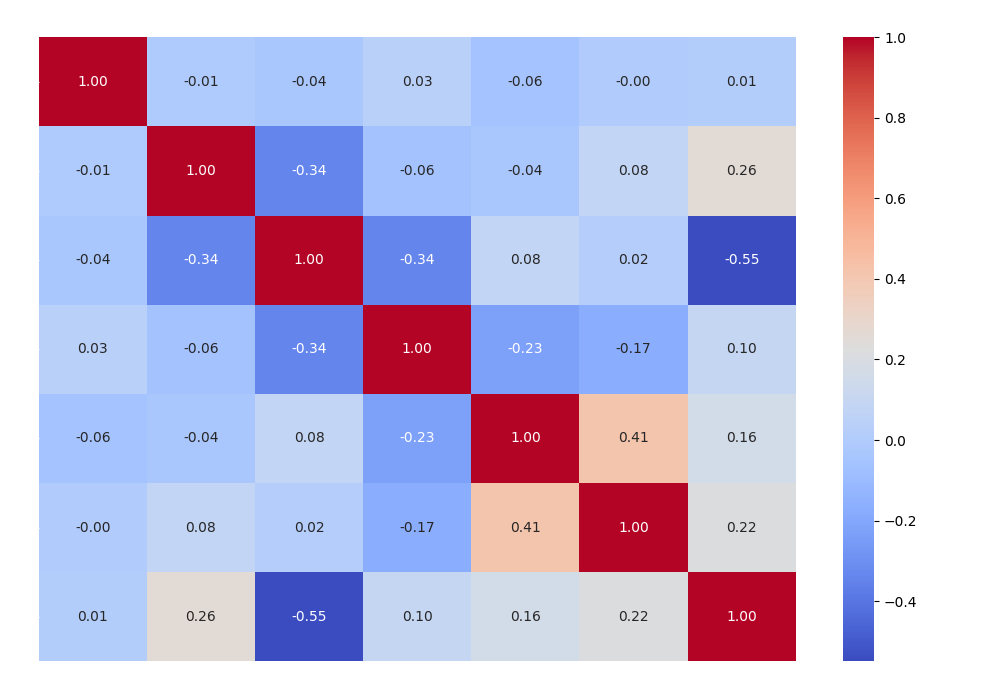
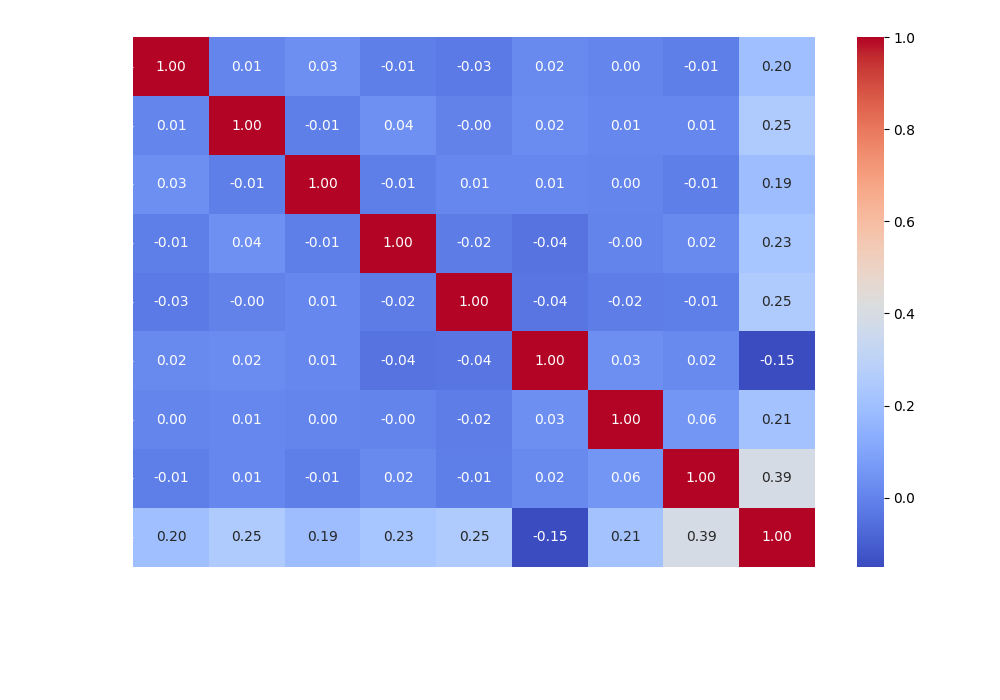
implement model training confirmation controller, server rate limiting, and ML output infrastructure.

diff --git a/backend/server.js b/backend/server.js
@@ -4,6 +4,29 @@ const dotenv = require("dotenv");
 
 dotenv.config();
 
+process.on("unhandledRejection", (reason, promise) => {
+  console.error("Unhandled Rejection at:", promise, "reason:", reason);
+  try {
+    const fs = require("fs");
+    const path = require("path");
+    fs.writeFileSync(path.join(__dirname, "last_server_error.txt"), `${new Date().toISOString()}\nUNHANDLED REJECTION:\n${reason?.stack || reason}\n\n`);
+  } catch (e) {
+    console.error("Failed to write rejection log:", e);
+  }
+});
+
+process.on("uncaughtException", (err) => {
+  console.error("Uncaught Exception thrown:", err);
+  try {
+    const fs = require("fs");
+    const path = require("path");
+    fs.writeFileSync(path.join(__dirname, "last_server_error.txt"), `${new Date().toISOString()}\nUNCAUGHT EXCEPTION:\n${err.stack || err}\n\n`);
+  } catch (e) {
+    console.error("Failed to write exception log:", e);
+  }
+  process.exit(1);
+});
+
 const connectDB = require("./config/db");
 const authRoutes = require("./routes/authRoutes");
 const uploadRoutes = require("./routes/uploadRoutes");
@@ -117,9 +140,23 @@ app.get("/", (req, res) => {
 // H2 fix: Never leak stack traces or internal error details to clients
 app.use((err, req, res, next) => {
   console.error("[ERROR]", err.stack);
-  const statusCode = err.statusCode || 500;
+  
+  // Set status code to 400 for client/multer validation errors
+  let statusCode = err.statusCode || 500;
+  if (err.name === "MulterError" || err.message.includes("Only CSV files are allowed")) {
+    statusCode = 400;
+  }
+
+  try {
+    const fs = require("fs");
+    const path = require("path");
+    fs.writeFileSync(path.join(__dirname, "last_server_error.txt"), `${new Date().toISOString()}\nStatus: ${statusCode}\n${err.stack}\n\n`);
+  } catch (e) {
+    console.error("Failed to write error log:", e);
+  }
+
   res.status(statusCode).json({
-    error: IS_PRODUCTION
+    error: IS_PRODUCTION && statusCode === 500
       ? "An internal server error occurred."
       : err.message,
   });

diff --git a/backend/utils/errorLogger.js b/backend/utils/errorLogger.js
@@ -1,0 +1,19 @@
+// utils/errorLogger.js
+const fs = require("fs");
+const path = require("path");
+
+function logError(title, err) {
+  try {
+    const logPath = path.join(__dirname, "../last_server_error.txt");
+    const timestamp = new Date().toISOString();
+    const stack = err?.stack || err || "No stack trace available";
+    const message = err?.message || err;
+    const logContent = `${timestamp}\n[${title}] ${message}\n${stack}\n\n`;
+    
+    fs.writeFileSync(logPath, logContent);
+  } catch (e) {
+    console.error("Failed to write to error log file:", e);
+  }
+}
+
+module.exports = { logError };

diff --git a/backend/controller/uploadController.js b/backend/controller/uploadController.js
@@ -3,6 +3,7 @@ const fs = require("fs");
 const mongoose = require("mongoose");
 const { GridFSBucket } = require("mongodb");
 const { ML_SERVICE_URL } = require("../config/urls");
+const { logError } = require("../utils/errorLogger.js");
 
 exports.uploadDataset = async (req, res) => {
   try {
@@ -28,6 +29,7 @@ exports.uploadDataset = async (req, res) => {
 
     uploadStream.on('error', (error) => {
       console.error("[GRIDFS UPLOAD ERROR]:", error);
+      logError("GRIDFS UPLOAD ERROR", error);
       res.status(500).json({ error: "Failed to store dataset securely." });
     });
 
@@ -66,6 +68,7 @@ exports.uploadDataset = async (req, res) => {
         res.json(mlData);
       } catch (mlError) {
         console.error("[ML ANALYZE ERROR]:", mlError.response?.data || mlError.message);
+        logError("ML ANALYZE ERROR", mlError);
         if (fs.existsSync(filePath)) {
           fs.unlinkSync(filePath);
         }
@@ -78,6 +81,7 @@ exports.uploadDataset = async (req, res) => {
 
   } catch (error) {
     console.error("[UPLOAD ERROR]:", error.message);
+    logError("UPLOAD ERROR", error);
     res.status(500).json({ error: "Dataset upload failed." });
   }
 };

diff --git a/backend/routes/uploadRoutes.js b/backend/routes/uploadRoutes.js
@@ -21,7 +21,9 @@ const upload = multer({
     if (allowedMimes.includes(file.mimetype) || allowedExts.includes(ext)) {
       cb(null, true);
     } else {
-      cb(new Error("Only CSV files are allowed. Please upload a valid .csv file."), false);
+      const error = new Error("Only CSV files are allowed. Please upload a valid .csv file.");
+      error.statusCode = 400;
+      cb(error, false);
     }
   },
 });

diff --git a/backend/controller/chatController.js b/backend/controller/chatController.js
@@ -1,5 +1,6 @@
 const axios = require("axios");
 const { ML_SERVICE_URL } = require("../config/urls");
+const { logError } = require("../utils/errorLogger.js");
 
 exports.handleChat = async (req, res) => {
   try {
@@ -25,6 +26,7 @@ exports.handleChat = async (req, res) => {
     res.json(response.data);
   } catch (error) {
     console.error("CHAT PROXY ERROR:", error.response?.data || error.message);
+    logError("CHAT PROXY ERROR", error);
     res.status(error.response?.status || 500).json({
       error: "The AI assistant is temporarily unavailable.",
       details: error.response?.data?.detail || error.message

diff --git a/backend/controller/confirmController.js b/backend/controller/confirmController.js
@@ -2,6 +2,7 @@ const axios = require("axios");
 const ModelRun = require("../models/ModelRun.js");
 const SystemMessage = require("../models/SystemMessage.js");
 const { ML_SERVICE_URL } = require("../config/urls.js");
+const { logError } = require("../utils/errorLogger.js");
 
 exports.confirmTarget = async (req, res) => {
   try {
@@ -98,6 +99,7 @@ exports.confirmTarget = async (req, res) => {
 
   } catch (error) {
     console.error("CONFIRM TARGET ERROR:", error.message);
+    logError("CONFIRM TARGET ERROR", error);
     res.status(500).json({
       error: "Training failed",
       details: error.response?.data?.details || error.message,